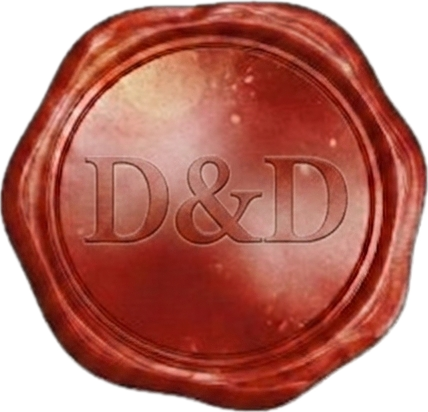
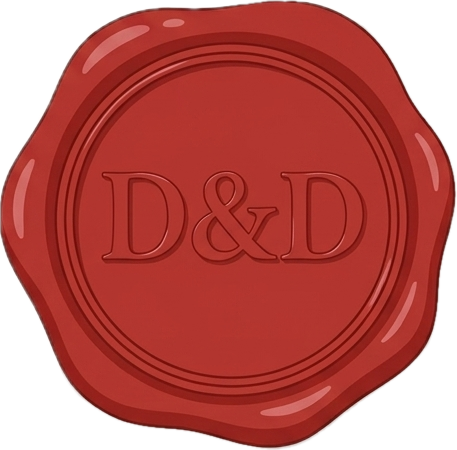
Refactor theme to wine-tone palette
Replace the original blue/azure theme with a wine/earth-tone palette site-wide. CSS vars were updated (azul → wine hues, added amarillo and verde accents), and many style tokens adjusted: backgrounds, borders, shadows, button hover states, form focus rings, hero accent colors, filters and opacity values. index.html SVG wave fills and section background colors were changed to match the new palette. Updated image assets (.DS_Store and fotos 5/sello.png) as part of the visual refresh.

diff --git a/styles5.css b/styles5.css
@@ -1,10 +1,13 @@
 :root {
     --crema:        #FAF8F3;
     --blanco:       #ffffff;
-    --azul:         #2B4A8C;
-    --azul-medio:   #4F6BAC;
-    --azul-claro:   #A8C4E8;
-    --azul-pastel:  #E8EFF9;
+    --azul:         #7c263a;   /* vino tinto */
+    --azul-medio:   #a33450;   /* vino medio */
+    --azul-claro:   #c8a0a8;   /* vino claro */
+    --azul-pastel:  #f5e8eb;   /* vino pastel */
+    --amarillo:     #d4892c;   /* amarillo quemado */
+    --amarillo-suave: #fef3e0; /* amarillo muy claro */
+    --verde:        #5d7e6c;   /* verde elegante */
     --texto:        #2B3038;
 
     --font-script:  'Dancing Script', cursive;
@@ -56,7 +59,7 @@ body {
     display: flex;
     justify-content: center;
     align-items: center;
-    background: var(--azul-claro);
+    background: #dbb689;
     transition: opacity 0.7s;
     overflow: hidden;
 }
@@ -77,7 +80,7 @@ body {
     width: 100px;
     cursor: pointer;
     transition: opacity 1s, transform 1.5s;
-    filter: hue-rotate(195deg) saturate(0.8) brightness(1.25);
+    filter: saturate(0.9) brightness(1.2);
 }
 .girar-desvanecer { transform: rotate(360deg) scale(1.2); opacity: 0; pointer-events: none; }
 
@@ -100,7 +103,7 @@ body {
     justify-content: center;
     align-items: center;
     padding: 20px;
-    border: 1px solid rgba(168,196,232,0.5);
+    border: 1px solid rgba(200,160,168,0.5);
     z-index: 2;
     opacity: 0;
     transition: transform 1.5s cubic-bezier(0.4,0,0.2,1), opacity 0.5s;
@@ -250,8 +253,8 @@ body {
 .hero-ampersand {
     display: block;
     font-size: clamp(2rem, 5vw, 3.8rem);
-    color: var(--azul-medio);
-    opacity: 0.55;
+    color: var(--amarillo);
+    opacity: 0.85;
     margin: 4px 0;
 }
 
@@ -270,8 +273,8 @@ body {
     opacity: 0.55;
     margin-top: 30px;
     padding: 14px 32px;
-    border-top: 1px solid rgba(43,74,140,0.14);
-    border-bottom: 1px solid rgba(43,74,140,0.14);
+    border-top: 1px solid rgba(124,38,58,0.14);
+    border-bottom: 1px solid rgba(124,38,58,0.14);
 }
 .dot { opacity: 0.3; }
 
@@ -313,9 +316,9 @@ h2.section-title.white { color: #fff; }
     font-weight: 700;
     letter-spacing: 5px;
     text-transform: uppercase;
-    color: var(--azul);
+    color: var(--verde);
     margin: 8px 0 44px;
-    opacity: 0.6;
+    opacity: 0.85;
 }
 
 /* ── COUNTDOWN ── */
@@ -331,11 +334,11 @@ h2.section-title.white { color: #fff; }
 
 .time-box {
     background: var(--blanco);
-    border: 2px solid rgba(43,74,140,0.15);
+    border: 2px solid rgba(124,38,58,0.15);
     padding: 22px 8px 18px;
     border-radius: 16px;
     text-align: center;
-    box-shadow: 0 4px 20px rgba(43,74,140,0.12);
+    box-shadow: 0 4px 20px rgba(124,38,58,0.12);
     transition: transform 0.3s;
 }
 .time-box:hover { transform: translateY(-3px); }
@@ -370,7 +373,7 @@ h2.section-title.white { color: #fff; }
 }
 
 /* ── TIMELINE (scattered) ── */
-.timeline-section { background: var(--blanco); padding: 90px var(--pad) 80px; }
+.timeline-section { background: var(--crema); padding: 90px var(--pad) 80px; }
 
 .timeline-scatter {
     max-width: 420px;
@@ -413,8 +416,8 @@ h2.section-title.white { color: #fff; }
     font-weight: 700;
     letter-spacing: 2.5px;
     text-transform: uppercase;
-    color: var(--azul-medio);
-    opacity: 0.65;
+    color: var(--verde);
+    opacity: 0.9;
     display: block;
     margin-top: 5px;
 }
@@ -430,12 +433,12 @@ h2.section-title.white { color: #fff; }
 .tl-arrow-l { align-self: flex-start; margin-left: 5%; }
 
 /* ── DRESS CODE ── */
-.dresscode-section { background: var(--crema); }
+.dresscode-section { background: var(--blanco); }
 .dresscode-container { max-width: 560px; margin: 0 auto; }
 
 .dresscode-badge {
     display: inline-block;
-    background: var(--azul);
+    background: var(--amarillo);
     color: #fff;
     font-family: var(--font-body);
     font-size: 0.72rem;
@@ -503,7 +506,7 @@ h2.section-title.white { color: #fff; }
     font-size: 1.15rem;
     font-family: var(--font-body);
     font-weight: 600;
-    color: var(--azul-medio);
+    color: var(--verde);
     margin-bottom: 30px;
     letter-spacing: 1px;
 }
@@ -515,7 +518,7 @@ h2.section-title.white { color: #fff; }
     max-width: 600px;
     border-radius: 22px;
     margin: 0 auto 32px;
-    box-shadow: 0 12px 40px rgba(43,74,140,0.12);
+    box-shadow: 0 12px 40px rgba(124,38,58,0.12);
 }
 
 .map-cta { margin-top: 8px; }
@@ -526,7 +529,7 @@ h2.section-title.white { color: #fff; }
     margin: 0 auto 28px;
     border-radius: 20px;
     overflow: hidden;
-    box-shadow: 0 10px 36px rgba(43,74,140,0.14);
+    box-shadow: 0 10px 36px rgba(124,38,58,0.14);
 }
 .map-embed iframe {
     width: 100%;
@@ -537,7 +540,7 @@ h2.section-title.white { color: #fff; }
 .btn-mapa {
     display: inline-block;
     padding: 14px 36px;
-    background: var(--azul);
+    background: var(--amarillo);
     color: #fff;
     border: none;
     border-radius: 50px;
@@ -548,12 +551,12 @@ h2.section-title.white { color: #fff; }
     text-transform: uppercase;
     text-decoration: none;
     transition: all 0.3s;
-    box-shadow: 0 6px 20px rgba(43,74,140,0.25);
+    box-shadow: 0 6px 20px rgba(212,137,44,0.3);
 }
 .btn-mapa:hover {
-    background: #1E3570;
+    background: #b3741f;
     transform: translateY(-2px);
-    box-shadow: 0 10px 28px rgba(43,74,140,0.35);
+    box-shadow: 0 10px 28px rgba(212,137,44,0.4);
 }
 
 /* ── RSVP ── */
@@ -612,7 +615,7 @@ h2.section-title.white { color: #fff; }
 .form-group input:not([type="radio"]):focus,
 .form-group textarea:focus {
     border-color: var(--azul-medio);
-    box-shadow: 0 0 0 4px rgba(43,74,140,0.1);
+    box-shadow: 0 0 0 4px rgba(124,38,58,0.1);
     outline: none;
 }
 
@@ -668,7 +671,7 @@ h2.section-title.white { color: #fff; }
     width: 100%;
 }
 .btn-primary:hover {
-    background: #1E3570;
+    background: #5a1a29;
     transform: translateY(-2px);
     box-shadow: 0 8px 24px rgba(0,0,0,0.22);
 }
@@ -677,7 +680,7 @@ h2.section-title.white { color: #fff; }
 .footer-boda {
     background-color: #1A1A18;
     padding: 50px 20px 40px;
-    border-top: 3px solid #a38350;
+    border-top: 3px solid var(--amarillo);
 }
 .footer-content {
     display: flex;
@@ -720,7 +723,7 @@ h2.section-title.white { color: #fff; }
 .nombre-planner {
     font-family: var(--font-script);
     font-size: 2rem;
-    color: #c8aa76;
+    color: var(--amarillo);
     line-height: 1.2;
 }
 .rol-planner {

diff --git a/index.html b/index.html
@@ -65,7 +65,7 @@
         <!-- WAVE: crema → azul-pastel -->
         <div class="wave-sep">
             <svg viewBox="0 0 1200 70" preserveAspectRatio="none" xmlns="http://www.w3.org/2000/svg">
-                <path d="M0,35 C200,70 400,0 600,35 C800,70 1000,0 1200,35 L1200,70 L0,70 Z" fill="#E8EFF9"/>
+                <path d="M0,35 C200,70 400,0 600,35 C800,70 1000,0 1200,35 L1200,70 L0,70 Z" fill="#f5e8eb"/>
             </svg>
         </div>
 
@@ -84,10 +84,10 @@
             <p class="wedding-date reveal reveal-delay-2">12 · 09 · 2026</p>
         </section>
 
-        <!-- WAVE: azul-pastel → blanco -->
-        <div class="wave-sep" style="background:#E8EFF9">
+        <!-- WAVE: vino-pastel → crema -->
+        <div class="wave-sep" style="background:#f5e8eb">
             <svg viewBox="0 0 1200 70" preserveAspectRatio="none" xmlns="http://www.w3.org/2000/svg">
-                <path d="M0,35 C200,0 400,70 600,35 C800,0 1000,70 1200,35 L1200,70 L0,70 Z" fill="#ffffff"/>
+                <path d="M0,35 C200,0 400,70 600,35 C800,0 1000,70 1200,35 L1200,70 L0,70 Z" fill="#FAF8F3"/>
             </svg>
         </div>
 
@@ -148,10 +148,10 @@
             </div>
         </section>
 
-        <!-- WAVE: blanco → crema -->
-        <div class="wave-sep" style="background:#ffffff">
+        <!-- WAVE: crema → blanco (dresscode) -->
+        <div class="wave-sep" style="background:#FAF8F3">
             <svg viewBox="0 0 1200 70" preserveAspectRatio="none" xmlns="http://www.w3.org/2000/svg">
-                <path d="M0,35 C200,70 400,0 600,35 C800,70 1000,0 1200,35 L1200,70 L0,70 Z" fill="#FAF8F3"/>
+                <path d="M0,35 C200,70 400,0 600,35 C800,70 1000,0 1200,35 L1200,70 L0,70 Z" fill="#ffffff"/>
             </svg>
         </div>
 
@@ -169,10 +169,10 @@
             </div>
         </section>
 
-        <!-- WAVE: crema → azul -->
-        <div class="wave-sep" style="background:#FAF8F3">
+        <!-- WAVE: blanco → vino -->
+        <div class="wave-sep" style="background:#ffffff">
             <svg viewBox="0 0 1200 70" preserveAspectRatio="none" xmlns="http://www.w3.org/2000/svg">
-                <path d="M0,35 C200,0 400,70 600,35 C800,0 1000,70 1200,35 L1200,70 L0,70 Z" fill="#2B4A8C"/>
+                <path d="M0,35 C200,0 400,70 600,35 C800,0 1000,70 1200,35 L1200,70 L0,70 Z" fill="#7c263a"/>
             </svg>
         </div>
 
@@ -185,7 +185,7 @@
         </section>
 
         <!-- WAVE: azul → crema -->
-        <div class="wave-sep" style="background:#2B4A8C">
+        <div class="wave-sep" style="background:#7c263a">
             <svg viewBox="0 0 1200 70" preserveAspectRatio="none" xmlns="http://www.w3.org/2000/svg">
                 <path d="M0,35 C200,70 400,0 600,35 C800,70 1000,0 1200,35 L1200,70 L0,70 Z" fill="#FAF8F3"/>
             </svg>
@@ -211,7 +211,7 @@
         <!-- WAVE: crema → azul -->
         <div class="wave-sep" style="background:#FAF8F3">
             <svg viewBox="0 0 1200 70" preserveAspectRatio="none" xmlns="http://www.w3.org/2000/svg">
-                <path d="M0,35 C200,0 400,70 600,35 C800,0 1000,70 1200,35 L1200,70 L0,70 Z" fill="#2B4A8C"/>
+                <path d="M0,35 C200,0 400,70 600,35 C800,0 1000,70 1200,35 L1200,70 L0,70 Z" fill="#7c263a"/>
             </svg>
         </div>
 
